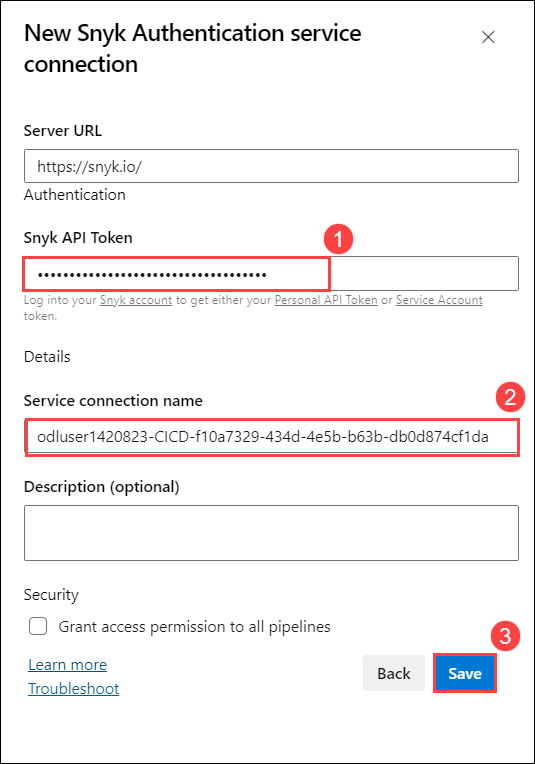
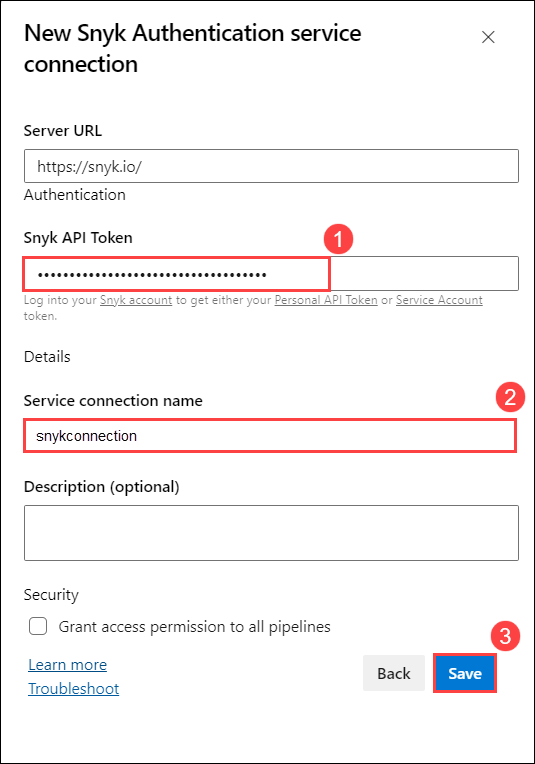
updated

Changed region(s): [[0.0299, 0.5419, 0.9869, 0.6021]]

diff --git a/Instructions/Labs/Module 5 - Defender for DevOps .md b/Instructions/Labs/Module 5 - Defender for DevOps .md
@@ -1088,19 +1088,7 @@ To enhance your security posture comprehensively, integrating non-Microsoft secu
 
    ![](images/65.png)
 
-1. Go to the Azure portal, search for **Entra ID (1)**, and select **Microsoft Entra ID (2)**.
-
-   ![](images/78.png)
-
-1. Scroll down and select **App registrations** under **manage**, then select the app registration named **odluser<inject key="DeploymentID" enableCopy="false"/>-Defender_for_cloud-suffix** under all application.
-
-   ![](images/77.png)
-
-1. Copy the name of the app registration and paste it into your notepad.
-
-   ![](images/80.png)
-
-1. Navigate back to Azure DevOps and click on **Project Settings** at the bottom left of the **eShopOnWeb** project.
+1. In Azure DevOps and click on **Project Settings** at the bottom left of the **eShopOnWeb** project.
 
 1. Scroll down on the **Project Settings** page and select **Service Principal.**
 
@@ -1114,7 +1102,7 @@ To enhance your security posture comprehensively, integrating non-Microsoft secu
 
    ![](images/76.png)
 
-1. Paste the **API** under **Snyk API Token (1)** and the **App registration** name under **Service connection name (2)** that you noted earlier. Then, click **Save (3)**.
+1. Paste the **API** under **Snyk API Token (1)** and under **Service connection name (2)** enter **Synkconnection**. Then, click **Save (3)**.
 
    ![](images/79.png)
 

diff --git a/Instructions/Labs/Module 2 - Writing Logic App.md b/Instructions/Labs/Module 2 - Writing Logic App.md
@@ -17,7 +17,7 @@ In this task, you'll deploy a Logic App with pre-configured triggers based on De
 
 1. Open a new tab and paste the following link to create the Logic App in your target resource group:
 
-   [![Deploy to Azure](https://aka.ms/deploytoazurebutton)](https://portal.azure.com/#create/Microsoft.Template/uri/https%3A%2F%2Fexperienceazure.blob.core.windows.net%2Ftemplates%2Fdefender-for-cloud-v2%2Fazuredeploybulkremediation.json)
+   [![Deploy to Azure](https://aka.ms/deploytoazurebutton)](https://portal.azure.com/#create/Microsoft.Template/uri/https%3A%2F%2Fraw.githubusercontent.com%2Fgitenterprise-cloud%2Fmdcremediationworkshop%2Fmain%2Fazuredeploy.json)
 
 2. On the **Custom deployment** blade, select the **defender for cloud (1)** resource group from the drop-down menu and click **Review + create (2)**.
 
